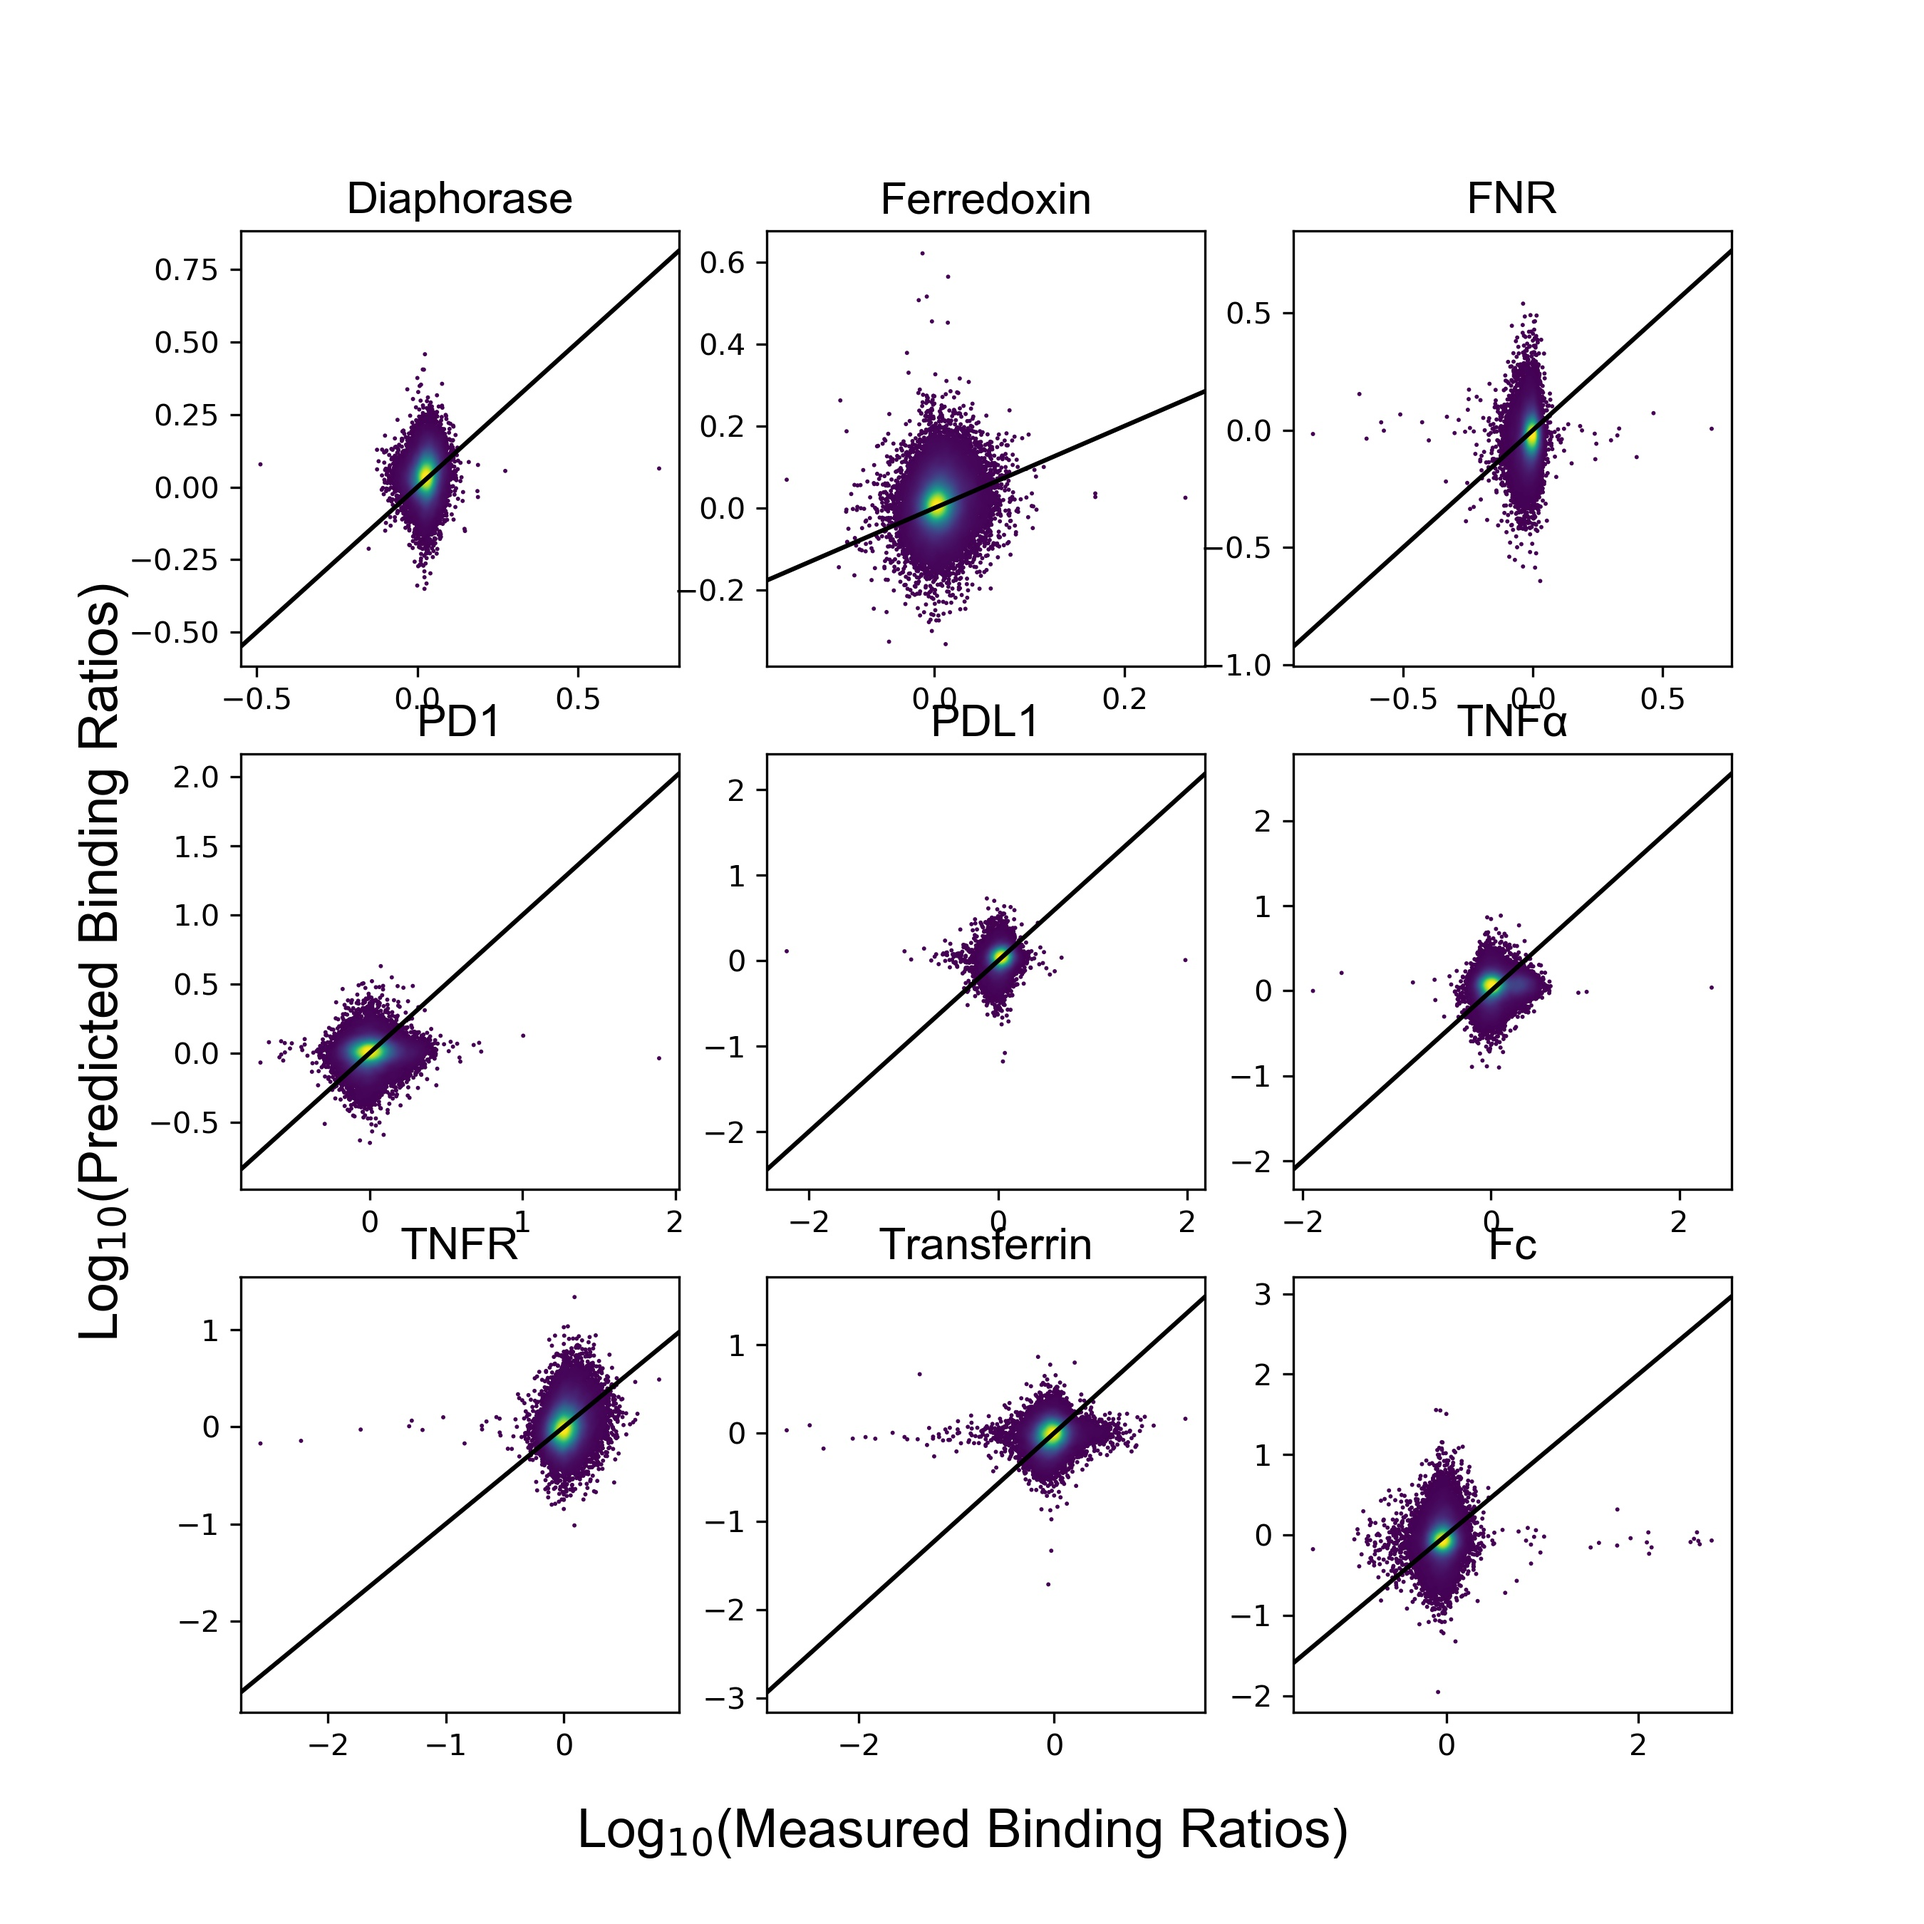
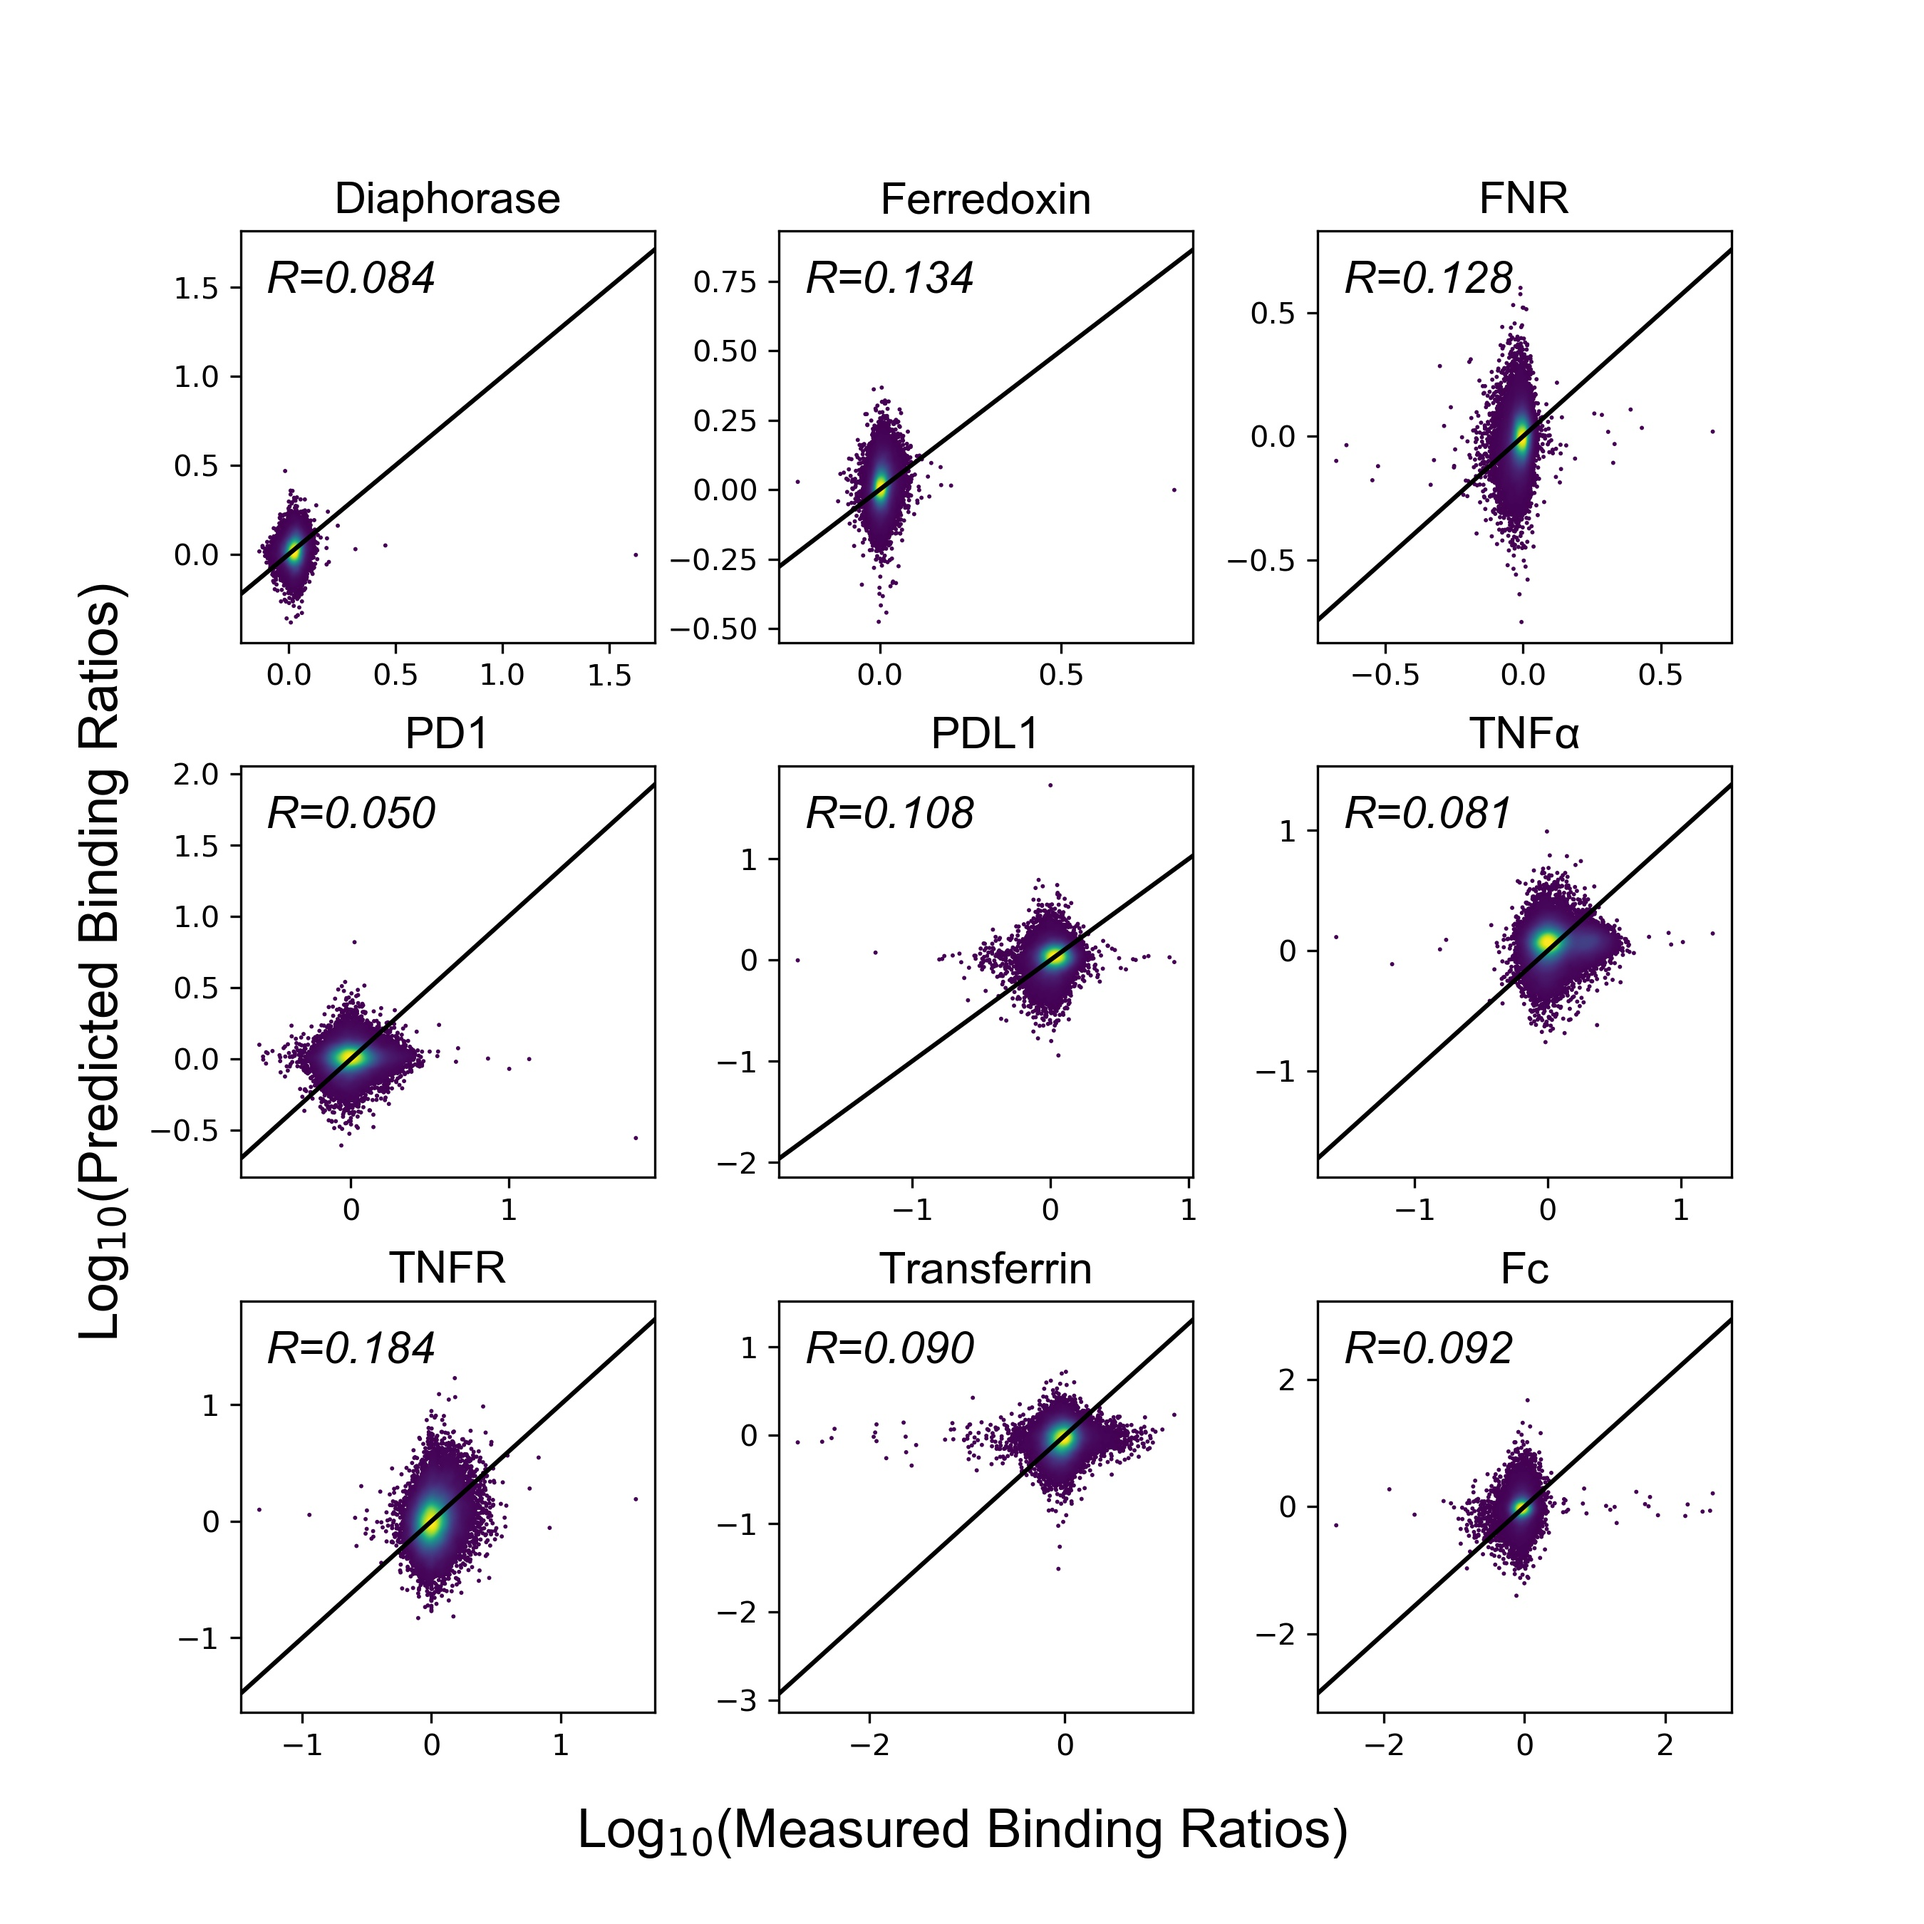
replot specificity controls

diff --git a/plot_specificity.py b/plot_specificity.py
@@ -15,7 +15,7 @@ directory = 'fits/2020-01-01/'
 fits = {x.split('-')[1]: x for x in os.listdir(directory)}
 
 # Set up Figures A and B with column gap
-fig, ax = plt.subplots(3, 4, gridspec_kw={'hspace':0.3, 'wspace':0.25, 'width_ratios': [1, 0.2, 1, 1]})
+fig, ax = plt.subplots(3, 4, gridspec_kw={'hspace': 0.3, 'wspace': 0.25, 'width_ratios': [1, 0.2, 1, 1]})
 for i in range(3):
     ax[i, 1].set_visible(False)
 ax[0, 0].text(-0.3, 1.1, 'A', transform=ax[0, 0].transAxes, fontname='Arial', fontsize=35)
@@ -37,8 +37,8 @@ for i, target_pair in enumerate(combinations(['Diaphorase', 'FNR', 'Ferredoxin']
     # Evaluate model for target pair
     specificity = []
     for target in target_pair:
-        nn = NeuralNetwork(filename=f'data/{target}.csv', train_test_split=train_test_split,
-                            evaluation_mode=f'{directory}{fits[target]}/Sample1/Model.pth')
+        nn = NeuralNetwork(data=f'data/{target}.csv', train_test_split=train_test_split,
+                           evaluation_mode=f'{directory}{fits[target]}/Sample1/Model.pth')
         specificity.append(nn.fit()[2:])
     
     # Calculate point density
@@ -51,13 +51,18 @@ for i, target_pair in enumerate(combinations(['Diaphorase', 'FNR', 'Ferredoxin']
     limits = [min(x) - padding, max(x) + padding]
 
     # Record Pearson correlation coefficient
-    correlations.append(f'{target_pair[0]}-{target_pair[1]}: {np.corrcoef(x, y)[0, 1]:.4f}')
+    correlation = np.corrcoef(x, y)[0, 1]
+    correlations.append(f'{target_pair[0]}-{target_pair[1]}: {correlation:.3f}')
 
     # Plot measured and predicted log binding ratios
     ax[i, 0].scatter(x, y, c=z, s=2, edgecolor='')
     ax[i, 0].plot(limits, limits, 'k')
     ax[i, 0].set_xlim(limits)
     ax[i, 0].set_title(f'{target_pair[0]}-{target_pair[1]}', fontname='Arial', fontsize=15)
+
+    # Plot correlatin coefficient
+    ax[i, 0].text(0.06, 0.85, f'R={correlation:.3f}', style='italic',
+                  fontname='Arial', fontsize=15, transform=ax[i, 0].transAxes)
 
 # Plot binding specificities for PD1, PDL1, TNFR, and TNFa
 for i, target_pair in enumerate(combinations(['PD1', 'PDL1', 'TNFR', 'TNFa'], 2)):
@@ -72,8 +77,8 @@ for i, target_pair in enumerate(combinations(['PD1', 'PDL1', 'TNFR', 'TNFa'], 2)
     # Evaluate model for target pair
     specificity = []
     for target in target_pair:
-        nn = NeuralNetwork(filename=f'data/{target}.csv', train_test_split=train_test_split,
-                            evaluation_mode=f'{directory}{fits[target]}/Sample1/Model.pth')
+        nn = NeuralNetwork(data=f'data/{target}.csv', train_test_split=train_test_split,
+                           evaluation_mode=f'{directory}{fits[target]}/Sample1/Model.pth')
         specificity.append(nn.fit()[2:])
     
     # Calculate point density
@@ -86,7 +91,8 @@ for i, target_pair in enumerate(combinations(['PD1', 'PDL1', 'TNFR', 'TNFa'], 2)
     limits = [min(x) - padding, max(x) + padding]
 
     # Record Pearson correlation coefficient
-    correlations.append(f'{target_pair[0]}-{target_pair[1]}: {np.corrcoef(x, y)[0, 1]:.4f}')
+    correlation = np.corrcoef(x, y)[0, 1]
+    correlations.append(f'{target_pair[0]}-{target_pair[1]}: {correlation:.3f}')
     
     # Plot measured and predicted target specificity
     target_pair = [target if target != 'TNFa' else 'TNFα' for target in target_pair]
@@ -94,6 +100,10 @@ for i, target_pair in enumerate(combinations(['PD1', 'PDL1', 'TNFR', 'TNFa'], 2)
     ax[i%3, i//3 + 2].plot(limits, limits, 'k')
     ax[i%3, i//3 + 2].set_xlim(limits)
     ax[i%3, i//3 + 2].set_title(f'{target_pair[0]}-{target_pair[1]}', fontname='Arial', fontsize=15)
+    
+    # Plot correlatin coefficient
+    ax[i%3, i//3 + 2].text(0.06, 0.85, f'R={correlation:.3f}', style='italic',
+                           fontname='Arial', fontsize=15, transform=ax[i%3, i//3 + 2].transAxes)
 
 # Label figures
 fig.text(0.5, 0.04, r'Log$_{10}$(Measured Binding Ratios)',

diff --git a/plot_specificity_control.py b/plot_specificity_control.py
@@ -36,7 +36,7 @@ for i, target in enumerate(['Transferrin']):
     data[target] = peptide_array.iloc[:, 2*i:2*i+2]
 
 # Plot control binding specificities for all targets
-fig, ax = plt.subplots(3, 3)
+fig, ax = plt.subplots(3, 3, gridspec_kw={'hspace': 0.3, 'wspace': 0.3})
 targets = ['Diaphorase', 'Ferredoxin', 'FNR', 'PD1',
            'PDL1', 'TNFα', 'TNFR', 'Transferrin', 'Fc']
 for i, target in enumerate(targets):
@@ -75,13 +75,18 @@ for i, target in enumerate(targets):
     limits = [min(x) - padding, max(x) + padding]
 
     # Record Pearson correlation coefficient
-    correlations.append(f'{target}: {np.corrcoef(x, y)[0, 1]:.4f}')
+    correlation = np.corrcoef(x, y)[0, 1]
+    correlations.append(f'{target}: {np.corrcoef(x, y)[0, 1]:.3f}')
 
     # Plot measured and predicted log binding ratios
     ax[i//3, i%3].scatter(x, y, c=z, s=2, edgecolor='')
     ax[i//3, i%3].plot(limits, limits, 'k')
     ax[i//3, i%3].set_xlim(limits)
     ax[i//3, i%3].set_title(f'{target}', fontname='Arial', fontsize=15)
+
+    # Plot correlatin coefficient
+    ax[i//3, i%3].text(0.06, 0.85, f'R={correlation:.3f}', style='italic',
+                       fontname='Arial', fontsize=15, transform=ax[i//3, i%3].transAxes)
 
 # Label figures
 fig.text(0.5, 0.04, r'Log$_{10}$(Measured Binding Ratios)',

diff --git a/README.md b/README.md
@@ -12,7 +12,9 @@ Neural network modeling of peptide sequence binding data
 - **fit_targets.py**: Model all nine protein targets with a neural network. The parameter settings (`Parameters.txt`), trained models (`Model.pth`), predicted vs real correlation plots (`Correlation.png`), and amino acid similarity matrix plots (`Similarity.png`) are all saved along with other metadata in `fits/`.
 - **multifit_target.py**: Fit a neural network multiple times to the same target. This is useful for estimating the variability in model performance and predictions.
 - **extrapolate_binding.py**: Train a neural network on weaker binding values, and then use it to predict stronger binding values not previously seen by the model.
-- **plot_specificity.py**: Plot measured and predicted binding specificity between two targets.
+- **plot_specificity.py**: Plot measured and predicted binding specificity between targets.
+- **plot_specificity_control.py**: Plot measured and predicted binding specificity for replicates for the same target.
+- **plot_self_correlation.py**: Plot correlation between replicates for the same target.
 - **plot_loss.py**: Plot loss during model training.
 - **plot_distributions.py**: Plot length and amino acid distributions of the peptide arrays.
 
